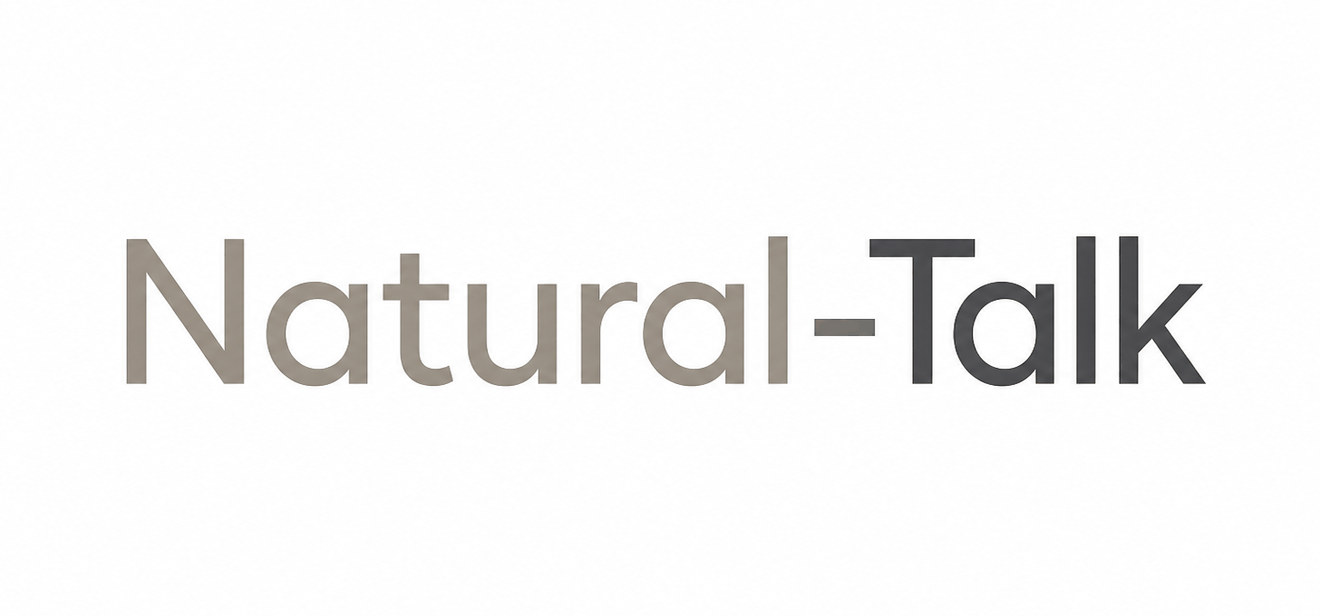
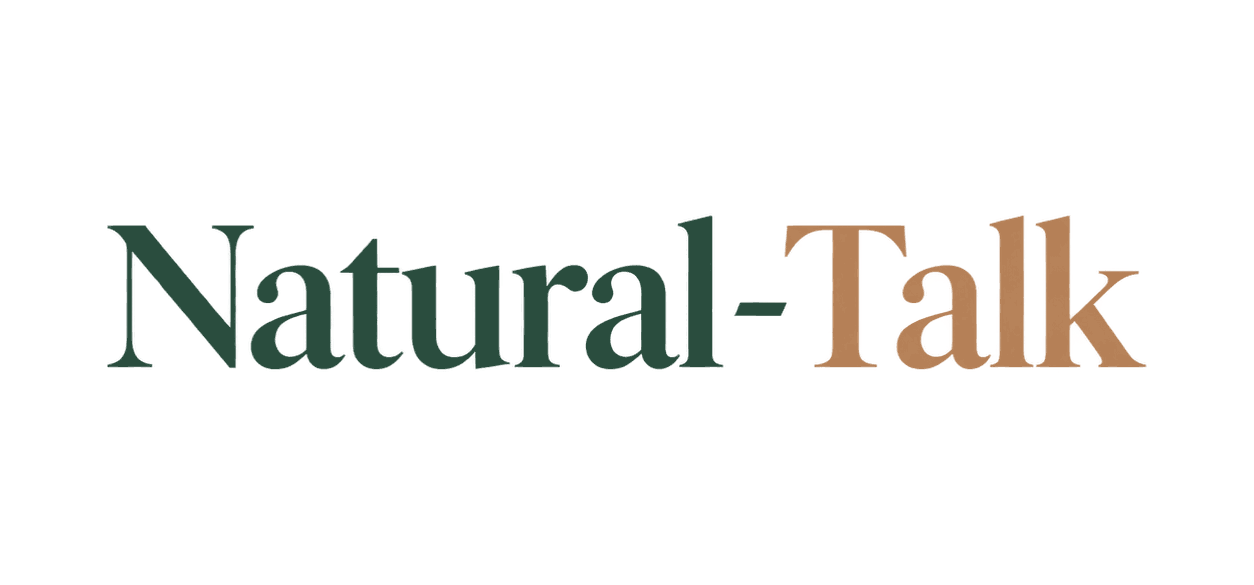
校验口径对齐、描述双语化、适用范围节、CI 与新品牌图

Changed region(s): [[0.0933, 0.3692, 0.933, 0.6462]]

diff --git a/scripts/check.py b/scripts/check.py
@@ -44,8 +44,10 @@ TIER1_COURTESY = [
 
 HOPE_PATTERN = re.compile(r"希望.{0,12}(帮助|有用|解决|对你)")
 
+NEXT_PATTERN = re.compile(r"接下来\s*[，,]?\s*(?:我|我们)")
+
 TIER2 = [
-    "让我来", "让我为你", "接下来", "下面我们", "综上所述", "由此可见",
+    "让我来", "让我为你", "下面我们", "综上所述", "由此可见",
     "拆一拆", "盘一盘", "划重点", "敲黑板", "捋一捋", "首先", "其次", "让我们",
     "let me break this down", "let's dive in", "in conclusion",
     "without further ado", "here's what you need to know",
@@ -80,7 +82,7 @@ TIER4 = [
 TIER5_WORDS = [
     "数据告诉我们", "问题变成了", "决策浮现了", "体现了", "体现在", "反映了", "彰显了",
     "深刻揭示", "至关重要", "不可或缺", "充满活力", "错综复杂",
-    "通常来说", "很大程度上", "赋能", "抓手", "闭环", "底层逻辑", "打法", "颗粒度",
+    "赋能", "抓手", "闭环", "底层逻辑", "打法", "颗粒度",
     "serves as", "stands as", "crucial", "pivotal", "landscape", "delve",
     "underscore", "showcase", "testament", "tapestry", "vibrant", "profound",
     "groundbreaking", "leverage", "synergy", "paradigm shift", "game-changer",
@@ -88,6 +90,7 @@ TIER5_WORDS = [
 
 TIER5_PATTERNS = [
     re.compile(r"可能.{0,8}(或许|大概|大致)"),
+    re.compile(r"(通常来说|一般来说|通常情况下|很大程度上).{0,24}(可能|或许|大概|大致|也许|应该)"),
 ]
 
 INLINE_TITLE = re.compile(r"^\s*(?:\d+[.、）]\s*)?(?:[-*]\s*)?\*\*.{1,16}\*\*\s*[:：]")
@@ -104,7 +107,7 @@ def run_checks(user, answer):
     scale = max(1, math.ceil(text_len / 300))
 
     identity_q = re.search(r"(你是|你是什么|你是啥)\s*?(AI|ai|人工智能|机器人|语言模型)|你是谁", user, re.I)
-    steps_q = re.search(r"(怎么|如何|步骤|安装|配置)", user)
+    steps_q = re.search(r"(怎么|如何|步骤|安装|配置|排查|修复|报错|流程|部署)", user)
 
     # Tier 1 协作痕迹（固定上限 1；身份询问豁免身份词）
     hits = []
@@ -118,6 +121,7 @@ def run_checks(user, answer):
     # Tier 2 讲义腔（固定上限 1；步骤语义豁免）
     if not steps_q:
         t2 = [w for w in TIER2 if w.lower() in answer.lower()]
+        t2 += NEXT_PATTERN.findall(answer)
         if len(t2) > 1:
             violations.append(("Tier2 讲义腔", "{} 处（上限 1）：{}".format(len(t2), t2[:5])))
 

diff --git a/scripts/check-sync.py b/scripts/check-sync.py
@@ -22,6 +22,7 @@ CORE = [
     "开场白≤1句", "客套收尾≤1次", "协作口吻≤1次", "讲义腔≤1次",
     "路标词≤2次", "破折号≤2次", "感叹号≤3次",
     "直奔主题", "不说作为AI", "会对朋友这样说吗",
+    "不适用范围", "本规则让位",
 ]
 
 RULES = [
@@ -74,6 +75,15 @@ def main():
         for phrase in RULES:
             if norm(phrase) not in texts[rel]:
                 problems.append("{} 缺少规则块：{}".format(rel, phrase))
+
+    # prose 计数断言：examples.md 案例数声明与正文一致
+    ep = ROOT / "docs" / "examples.md"
+    etext = ep.read_text(encoding="utf-8")
+    claim = re.search(r"(\d+)\s*组完整", etext)
+    actual = len(re.findall(r"^## 案例\s*\d+", etext, re.M))
+    if not claim or int(claim.group(1)) != actual:
+        problems.append("examples.md 案例数声明与正文不符（声明 {}，实际 {}）".format(
+            claim.group(1) if claim else "无", actual))
 
     if problems:
         for p in problems:

diff --git a/SKILL.md b/SKILL.md
@@ -1,12 +1,12 @@
 ---
 name: natural-talk
-description: 让 AI 在对话中像真人说话。大幅减少 AI 腔、表演感、协作口吻、过度礼貌、讲义腔。不知道就说不知道，不编造，不模糊。适用于任何聊天和即时沟通场景。
+description: "让 AI 在对话中像真人说话：去除 AI 腔、表演感、协作口吻、讲义腔、过度礼貌。不知道就说不知道，不编造，不评判人。当用户要求自然、口语化、像朋友聊天的回复，抱怨太机器人、太官方、太客套，或配置客服、微信/Slack/Discord 聊天机器人、技术答疑等对话场景时使用。不适合学术润色、正式公文、营销文案、演讲稿。Make AI replies sound like a real person: strips AI-speak, lecture tone, over-politeness. Use for natural conversational-tone requests; not for academic, formal, or marketing writing."
 license: MIT
 ---
 
 # Natural Talk - 自然对话完全指南
 
-让 AI 在对话中像真人，不装、不端着、不过度礼貌、不像在演讲。
+让 AI 在对话中像真人，不过度礼貌、不像在演讲。
 
 ## 使用原则（先读这段）
 
@@ -76,6 +76,10 @@ Tier 6 视觉标记：破折号滥用（≤2 次/全文）/ 粗体每段最多 1
 - 结构词不是毒药：真实的分步操作可以用"首先/其次"，禁止的是无内容的空预告
 - 上限不是目标：破折号 ≤2 是"最多 2 个"，不是"要用满 2 个"
 - 对方遇到坏消息时，安慰优先于本规则
+
+## 不适用范围
+
+学术润色、正式公文、法律文件、营销文案、演讲稿等需要相反风格的场景，本规则让位。
 
 ## 三秒记忆口诀
 

diff --git a/README.md b/README.md
@@ -69,6 +69,8 @@ natural-talk/
 ├── README.md                        # 项目说明（本文件）
 ├── LICENSE                          # MIT License
 ├── SKILL.md                         # Claude Code Skill 入口（克隆即用）
+├── .github/
+│   └── workflows/ci.yml            # CI：自动跑 check.py + check-sync.py
 ├── assets/
 │   └── natural-talk.png             # 品牌图（README 展示）
 ├── docs/
@@ -97,11 +99,12 @@ natural-talk/
 - Slack / Discord / 微信群的 AI 助手
 - 即时通讯工具
 
-❌ **不推荐使用**：
+❌ **不适用范围（不推荐使用）**：
 - 学术论文润色 → 用其他学术润色工具
 - 长文改写 → 用专门的改写工具
 - 英文博客写作 → 用英文写作优化工具
 - 正式文档、法律文件、营销文案
+- 演讲稿等需要相反风格的场景，本规则让位
 
 ## 三秒记忆口诀
 
@@ -245,9 +248,9 @@ response = client.chat.completions.create(
 
 Natural Talk 可以与其他 skill **同时使用**：
 
-✅ 专注前端 UI 设计的 skill  
 ✅ 学术论文润色的 skill  
 ✅ 代码审查类 skill  
+✅ 客服回复/话术类 skill  
 
 ## 贡献
 

diff --git a/docs/full-guide.md b/docs/full-guide.md
@@ -2,7 +2,7 @@
 
 > 本文件为阅读参考（规则唯一源），勿整体注入 context；需要注入请用 `templates/` 下的文件。
 
-让 AI 在对话中像真人，不装、不端着、不过度礼貌、不像在演讲。
+让 AI 在对话中像真人，不过度礼貌、不像在演讲。
 
 ## 使用原则（先读这段）
 
@@ -337,6 +337,10 @@
 - 上限不是目标：破折号 ≤2 是"最多 2 个"，不是"要用满 2 个"
 - 对方遇到坏消息时，安慰优先于本规则
 
+## 不适用范围
+
+学术润色、正式公文、法律文件、营销文案、演讲稿等需要相反风格的场景，本规则让位。
+
 ## 语言特定规则
 
 ### 中文对话
@@ -433,7 +437,7 @@
 1. 文件权限 (chmod 644)
 2. 用户组设置
 
-可能的原因：系统默认限制了非 root 用户的写入。
+可能是系统默认限制了非 root 用户的写入。
 ```
 
 **要点：**直接给方案 → 简短解释原因。不铺垫，不收尾。

diff --git a/docs/quick-reference.md b/docs/quick-reference.md
@@ -145,6 +145,10 @@
 - 上限不是目标：破折号 ≤2 是"最多 2 个"，不是"要用满 2 个"
 - 对方遇到坏消息时，安慰优先于本规则
 
+## 不适用范围
+
+学术润色、正式公文、法律文件、营销文案、演讲稿等需要相反风格的场景，本规则让位。
+
 ## 自检清单（发送前快速过一遍）
 
 ### 硬性检查（必须通过）

diff --git a/docs/examples.md b/docs/examples.md
@@ -1,6 +1,6 @@
 # Natural Talk - 改善案例
 
-4 组完整的 before/after 对比，展示如何将 AI 腔改成自然对话。
+5 组完整的 before/after 对比，展示如何将 AI 腔改成自然对话。
 
 ---
 
